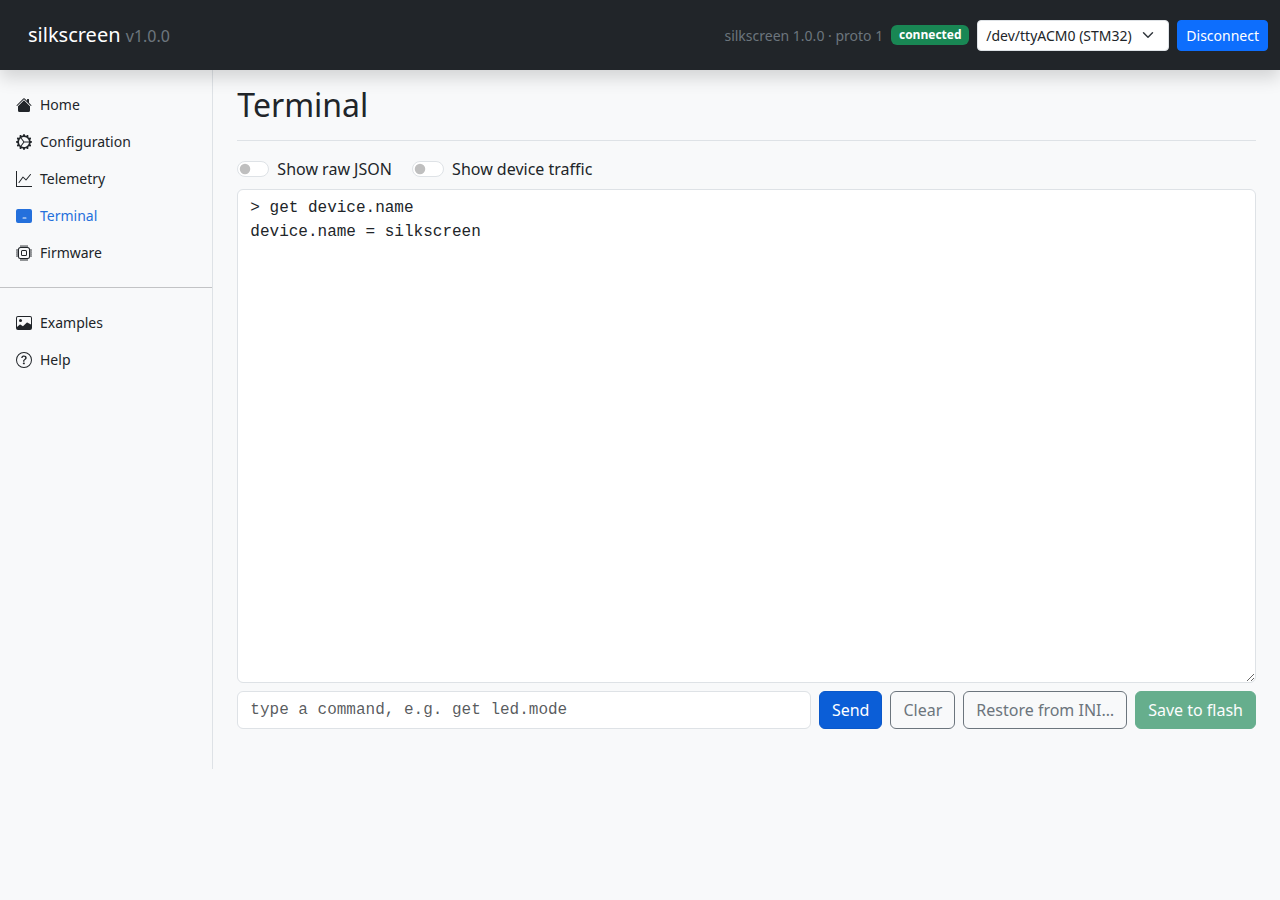
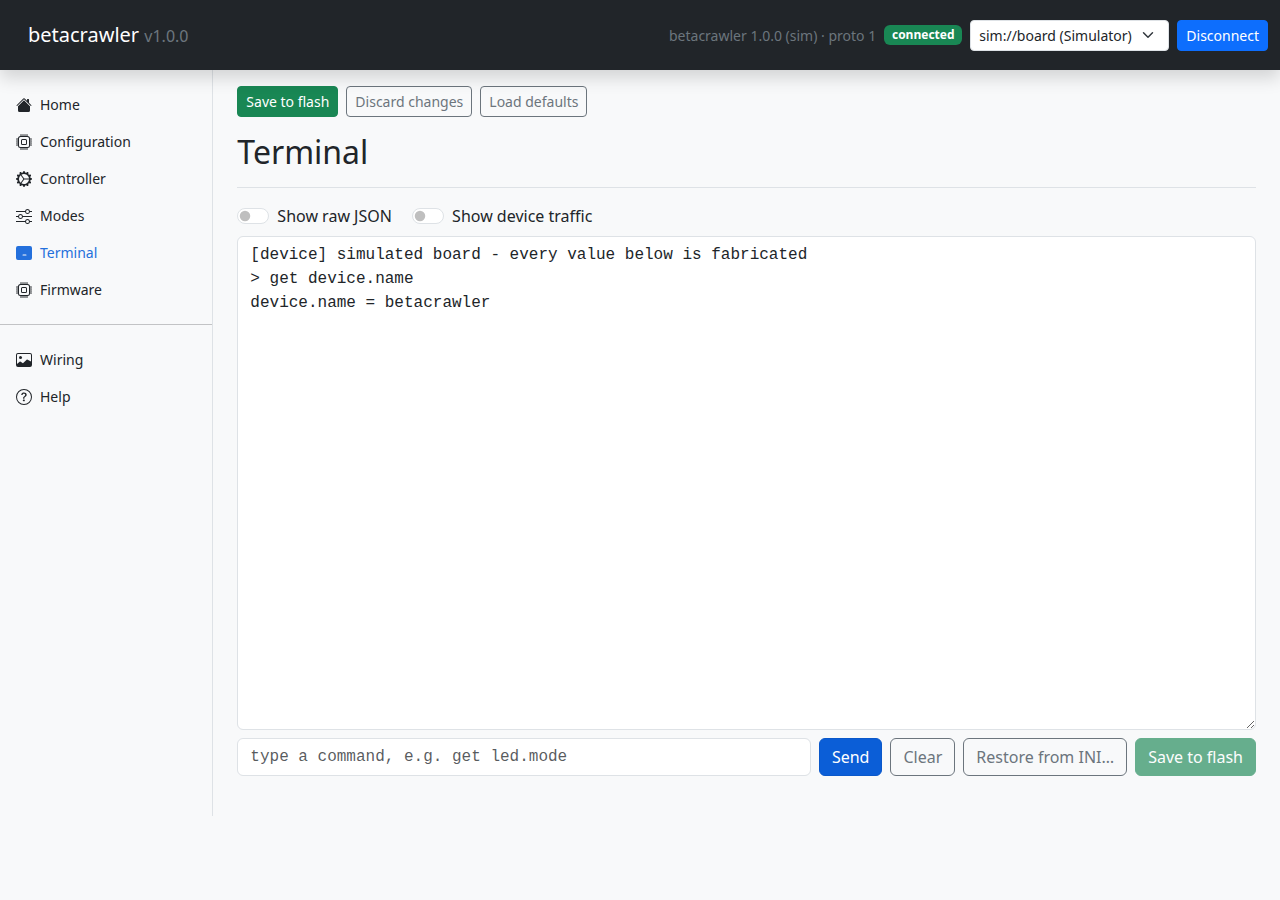
docs: capture screenshots against the simulator
The tool carried its own hand-written schema, which had drifted from the
firmware -- it still declared a disp.page display parameter this board
does not ship, and no tank_drive at all. Point it at sim://board
instead, whose profile is copied from the firmware's golden fixture, so
the capture tracks the real parameter set without a second copy of it
living here. The simulator pushes its own telemetry at tlm.rate, so the
hand-rolled pusher goes with it.

Page list follows the current nav: home, config, controller, modes,
terminal, firmware, wiring, help. telemetry.png and examples.png are
removed -- neither page exists.

diff --git a/docs-tools/capture_screenshots.py b/docs-tools/capture_screenshots.py
@@ -1,4 +1,4 @@
-"""Capture screenshots of the app UI against a fake, fully-populated device.
+"""Capture screenshots of the app UI against the simulated board.
 
 Dev tool, not part of the published site or its build. Run by hand to
 (re)generate docs/assets/screenshots/*.png after a UI change:
@@ -9,8 +9,11 @@ Requires ~/.pwvenv (Playwright + Chromium, see CLAUDE.md) AND app/'s own deps
 (uvicorn, fastapi, ...) importable -- run against app/.venv's site-packages,
 not ~/.pwvenv's own, hence the sys.path juggling below rather than a venv
 switch.
+
+The device is the `sim://board` simulator, whose schema is copied from the
+firmware's golden fixture -- so these screenshots track the real parameter set
+without a second copy of it living here.
 """
-import math
 import sys
 import threading
 import time
@@ -26,176 +29,32 @@ sys.path.insert(0, str(APP_DIR / ".venv" / "lib" /
 import uvicorn  # noqa: E402  (path setup above must run first)
 import backend.main as backend_main  # noqa: E402
 from backend.device import DeviceModel  # noqa: E402
-from backend.link import SerialLink  # noqa: E402
+from backend.link import SIM_PORT, SerialLink  # noqa: E402
 from backend.main import create_app  # noqa: E402
-from tests.fake_serial import FakeSerial  # noqa: E402
 
 # The real /api/ports route enumerates whatever serial devices are physically
-# attached to the machine running this script -- not anything from the fake
-# device fixture below. Left alone, that leaks the capture machine's real
-# hardware into the navbar's port picker (seen once as a stray "(ESP32)"
-# entry, contradicting every other part of this demo, which is all
-# blackpill_f411ce / "(STM32)"). Pin it to one fixed, fake STM32-labeled port
-# so screenshots are identical and reproducible on any machine.
+# attached to the machine running this script. Left alone, that leaks the
+# capture machine's real hardware into the navbar's port picker, so the
+# screenshots differ per machine. Pin it to the simulator alone.
 backend_main.list_candidate_ports = lambda: [
-    {"port": "/dev/ttyACM0", "desc": "STM32 Virtual COM Port", "vid": "0483",
-     "pid": "5740", "match": True, "board": "STM32"}
+    {"port": SIM_PORT, "desc": "Simulated board (no hardware)", "vid": "",
+     "pid": "", "match": True, "board": "Simulator"}
 ]
 
 PORT = 8099
 
-# Every module enabled at once -- see the module docstring for why that's
-# fine here despite no real board shipping this combination.
-_SRC_CHANS = [f"ch{i}" for i in range(1, 13)]
+# data-page values straight from app/web/index.html's nav buttons.
+PAGES = ("home", "config", "controller", "modes", "terminal", "firmware",
+         "wiring", "help")
 
-SCHEMA_PARAMS = [
-    {"key": "device.name", "type": "str", "label": "Device Name", "def": "betacrawler",
-     "group": "Device"},
-    {"key": "tlm.rate", "type": "u8", "label": "Rate", "unit": "Hz",
-     "min": 1, "max": 50, "def": 10, "group": "Telemetry"},
-    {"key": "led.mode", "type": "enum", "label": "LED Mode",
-     "options": ["off", "on", "blink", "fade"], "def": "blink", "group": "LED"},
-    {"key": "led.blink_hz", "type": "u8", "label": "Rate", "unit": "Hz",
-     "min": 1, "max": 20, "def": 2, "group": "LED"},
-    {"key": "servo.mode", "type": "enum", "label": "Servo",
-     "options": ["off", "hold", "sweep", "input"], "def": "off", "group": "Servo"},
-    {"key": "servo.angle", "type": "u8", "label": "Angle", "unit": "°",
-     "min": 0, "max": 180, "def": 90, "group": "Servo"},
-    {"key": "servo.sweep_s", "type": "u8", "label": "Sweep", "unit": "s",
-     "min": 1, "max": 30, "def": 4, "group": "Servo"},
-    {"key": "servo.min_us", "type": "u8", "label": "Min", "unit": "µs",
-     "min": 500, "max": 1500, "def": 1000, "group": "Servo"},
-    {"key": "servo.max_us", "type": "u8", "label": "Max", "unit": "µs",
-     "min": 1500, "max": 2500, "def": 2000, "group": "Servo"},
-    {"key": "servo.src", "type": "enum", "label": "Source", "options": _SRC_CHANS,
-     "def": "ch2", "group": "Servo", "showIf": {"key": "servo.mode", "val": "input"}},
-    {"key": "esc0.direction", "type": "enum", "label": "Direction",
-     "options": ["unidirectional", "bidirectional"], "def": "unidirectional", "group": "ESC 0"},
-    {"key": "esc0.mode", "type": "enum", "label": "ESC",
-     "options": ["off", "armed", "input"], "def": "off", "group": "ESC 0"},
-    {"key": "esc0.throttle_us", "type": "u8", "label": "Throttle", "unit": "µs",
-     "min": 1000, "max": 2000, "def": 1000, "group": "ESC 0"},
-    {"key": "esc0.min_us", "type": "u8", "label": "Min", "unit": "µs",
-     "min": 500, "max": 1500, "def": 1000, "group": "ESC 0"},
-    {"key": "esc0.max_us", "type": "u8", "label": "Max", "unit": "µs",
-     "min": 1500, "max": 2500, "def": 2000, "group": "ESC 0"},
-    {"key": "esc0.src", "type": "enum", "label": "Source", "options": _SRC_CHANS,
-     "def": "ch1", "group": "ESC 0", "showIf": {"key": "esc0.mode", "val": "off"}},
-    {"key": "esc1.direction", "type": "enum", "label": "Direction",
-     "options": ["unidirectional", "bidirectional"], "def": "unidirectional", "group": "ESC 1"},
-    {"key": "esc1.mode", "type": "enum", "label": "ESC",
-     "options": ["off", "armed", "input"], "def": "off", "group": "ESC 1"},
-    {"key": "esc1.throttle_us", "type": "u8", "label": "Throttle", "unit": "µs",
-     "min": 1000, "max": 2000, "def": 1000, "group": "ESC 1"},
-    {"key": "esc1.min_us", "type": "u8", "label": "Min", "unit": "µs",
-     "min": 500, "max": 1500, "def": 1000, "group": "ESC 1"},
-    {"key": "esc1.max_us", "type": "u8", "label": "Max", "unit": "µs",
-     "min": 1500, "max": 2500, "def": 2000, "group": "ESC 1"},
-    {"key": "esc1.src", "type": "enum", "label": "Source", "options": _SRC_CHANS,
-     "def": "ch1", "group": "ESC 1", "showIf": {"key": "esc1.mode", "val": "off"}},
-    {"key": "rx.protocol", "type": "enum", "label": "Protocol",
-     "options": ["crossfire", "elrs"], "def": "crossfire", "group": "RX"},
-    {"key": "rx.source", "type": "enum", "label": "Source",
-     "options": ["uart", "sim"], "def": "uart", "group": "RX"},
-    {"key": "crossfire.timeout_ms", "type": "u8", "label": "Timeout", "unit": "ms",
-     "min": 100, "max": 2000, "def": 1000, "group": "Crossfire",
-     "showIf": {"key": "rx.protocol", "val": "crossfire"}},
-    {"key": "elrs.timeout_ms", "type": "u8", "label": "Timeout", "unit": "ms",
-     "min": 50, "max": 2000, "def": 200, "group": "ELRS",
-     "showIf": {"key": "rx.protocol", "val": "elrs"}},
-    {"key": "disp.mode", "type": "enum", "label": "Display",
-     "options": ["off", "on"], "def": "on", "group": "Display"},
-    {"key": "disp.page", "type": "enum", "label": "Page",
-     "options": ["info", "stats", "cycle"], "def": "info", "group": "Display"},
-    {"key": "disp.rate", "type": "u8", "label": "Refresh", "unit": "Hz",
-     "min": 1, "max": 10, "def": 2, "group": "Display"},
-    {"key": "wifi.ssid", "type": "str", "label": "SSID", "maxlen": 31, "group": "WiFi"},
-    {"key": "wifi.password", "type": "str", "label": "Password", "maxlen": 31, "group": "WiFi",
-     "secret": True},
-]
-
-SCHEMA_TLM = [
-    {"key": "up", "label": "Uptime", "fmt": "hms", "group": "System"},
-    {"key": "clk", "label": "Clock", "unit": "MHz", "group": "System"},
-    {"key": "ram", "label": "Free RAM", "unit": "kB", "div": 1024, "dec": 1, "group": "System"},
-    {"key": "temp", "label": "Temp", "unit": "°C", "dec": 1, "group": "System"},
-    {"key": "vdd", "label": "VDD", "unit": "V", "div": 1000, "dec": 2, "group": "System"},
-    {"key": "btn", "label": "Button", "group": "Button"},
-    {"key": "srv", "label": "Servo", "unit": "µs", "group": "Servo"},
-    {"key": "esc0", "label": "ESC 0", "unit": "µs", "group": "ESC 0"},
-    {"key": "arm0", "label": "Armed", "group": "ESC 0"},
-    {"key": "esc1", "label": "ESC 1", "unit": "µs", "group": "ESC 1"},
-    {"key": "arm1", "label": "Armed", "group": "ESC 1"},
-    {"key": "wifi.status", "label": "Status", "group": "WiFi"},
-    {"key": "wifi.rssi", "label": "RSSI", "unit": "dBm", "group": "WiFi"},
-    {"key": "wifi.ip", "label": "IP", "fmt": "ip", "group": "WiFi"},
-    {"key": "link", "label": "Link", "group": "RC Link"},
-    {"key": "lq", "label": "LQ", "unit": "%", "group": "RC Link"},
-    {"key": "rssi", "label": "RSSI", "unit": "dBm", "group": "RC Link"},
-    {"key": "rate", "label": "Rate", "unit": "Hz", "group": "RC Link"},
-    {"key": "err", "label": "Errors", "group": "RC Link"},
-    {"key": "rfrate", "label": "RF Rate", "unit": "Hz", "group": "RC Link"},
-    {"key": "pwr", "label": "TX Power", "unit": "mW", "group": "RC Link"},
-] + [
-    {"key": f"ch{i}", "label": f"CH{i}", "unit": "µs", "fmt": "bar",
-     "lo": 988, "hi": 2012, "group": "RC Channels"}
-    for i in range(1, 17)
-]
-
-VALUES = {p["key"]: p.get("def", p.get("defStr", "")) for p in SCHEMA_PARAMS}
-
-
-def responder(req, emit):
-    op, rid = req["op"], req["id"]
-    if op == "hello":
-        emit({"id": rid, "ok": True, "fw": "betacrawler 1.0.0", "proto": 1,
-              "board": "blackpill_f411ce", "name": "betacrawler", "ver": "1.0.0",
-              "built": "Aug  2 2026 12:00:00",
-              "mods": ["device", "system", "button", "led", "servo", "esc0", "esc1", "rx",
-                       "st7789_240x240", "wifi"],
-              "caps": ["dfu", "wifiscan"]})
-    elif op == "schema":
-        emit({"id": rid, "ok": True, "params": SCHEMA_PARAMS, "tlm": SCHEMA_TLM})
-    elif op == "getall":
-        emit({"id": rid, "ok": True, "vals": dict(VALUES)})
-    elif op == "get":
-        emit({"id": rid, "ok": True, "key": req["key"], "val": VALUES.get(req["key"])})
-    elif op in ("set", "save", "defaults"):
-        emit({"id": rid, "ok": True})
-    else:
-        emit({"id": rid, "ok": False, "err": "badop"})
-
-
-def push_telemetry(fake, stop_event):
-    """Unsolicited tlm frames -- moving RC-channel bars are what make the
-    Telemetry screenshot read as "live" rather than a static form.
-
-    Pushed every 200ms rather than once a second: app.js's disconnect
-    watchdog (app/web/app.js's startWatchdog()) flags the connection "stale"
-    -- an amber badge -- after 3 missed intervals of the *declared*
-    `tlm.rate` (10 Hz here, i.e. a 300ms threshold), regardless of what
-    interval this fake actually pushes at. A once-a-second push blows past
-    that 300ms budget on every cycle, so the badge flickered stale/connected
-    and could land on "stale" for whichever screenshot happened to fire
-    mid-gap. 200ms keeps every frame under the threshold so the badge reads
-    "connected" throughout the capture run.
-    """
-    start = time.monotonic()
-    while not stop_event.wait(0.2):
-        t = time.monotonic() - start
-        frame = {"up": int(t * 1000), "clk": 96, "ram": 42189, "temp": 34.5, "vdd": 3300,
-                 "btn": 0, "srv": 1500, "esc0": 1500, "arm0": 2, "esc1": 1500, "arm1": 2,
-                 "wifi.status": 1, "wifi.rssi": -52, "wifi.ip": 0xC0A80042,
-                 "link": 1, "lq": 99, "rssi": -61, "rate": 150, "err": 0,
-                 "rfrate": 150, "pwr": 100}
-        for i in range(1, 17):
-            frame[f"ch{i}"] = 1500 + int(300 * math.sin(t / 3 + i))
-        fake.emit({"tlm": frame})
+# Pages whose content runs past one 1280x900 viewport: the parameter form, the
+# two curated setup pages, the wiring diagram and the help text. The rest fit,
+# and leaving them viewport-only keeps thumbnail sizes consistent.
+FULL_PAGE = {"config", "controller", "modes", "wiring", "help"}
 
 
 def main():
-    fake = FakeSerial(responder=responder)
-    device = DeviceModel(SerialLink(open_port=lambda p: fake))
+    device = DeviceModel(SerialLink())
     app = create_app(device)
 
     server = uvicorn.Server(uvicorn.Config(app, host="127.0.0.1", port=PORT, log_level="warning"))
@@ -203,9 +62,6 @@ def main():
     server_thread.start()
     while not server.started:
         time.sleep(0.05)
-
-    stop_event = threading.Event()
-    threading.Thread(target=push_telemetry, args=(fake, stop_event), daemon=True).start()
 
     out_dir = REPO_ROOT / "docs" / "assets" / "screenshots"
     out_dir.mkdir(parents=True, exist_ok=True)
@@ -220,33 +76,22 @@ def main():
         page.wait_for_selector("#state:has-text('connected')")
         time.sleep(1.5)  # let at least one telemetry frame land
 
-        # data-page values straight from app/web/index.html's nav buttons.
-        for name in ("home", "config", "telemetry", "terminal", "firmware", "help", "examples"):
+        for name in PAGES:
             page.click(f"[data-page='{name}']")
             page.wait_for_timeout(300)
 
             if name == "terminal":
                 # An empty terminal makes for a useless screenshot -- type a
                 # real command and submit it so the capture shows actual
-                # command/response content. The fake device's responder()
-                # answers `get` requests directly.
+                # command/response content.
                 page.fill("#term-input", "get device.name")
                 page.click("#term-send")
                 page.wait_for_timeout(300)
 
-            # config.png feeds readme.md's hero gallery and needs to sell the
-            # project at a glance, so it captures the whole scrollable form
-            # (every module group, including ESC 0 and ESC 1 as separate groups)
-            # rather than just the first screenful.
-            # telemetry.png and help.png also use full_page so cards/bullets
-            # aren't cut off mid-content. The remaining pages fit their
-            # content within one 1280x900 viewport already, so leaving them
-            # viewport-only keeps the gallery's thumbnails a consistent size.
-            full_page = name in ("config", "telemetry", "help")
-            page.screenshot(path=str(out_dir / f"{name}.png"), full_page=full_page)
+            page.screenshot(path=str(out_dir / f"{name}.png"),
+                            full_page=name in FULL_PAGE)
         browser.close()
 
-    stop_event.set()
     server.should_exit = True
     server_thread.join(timeout=2)
 
